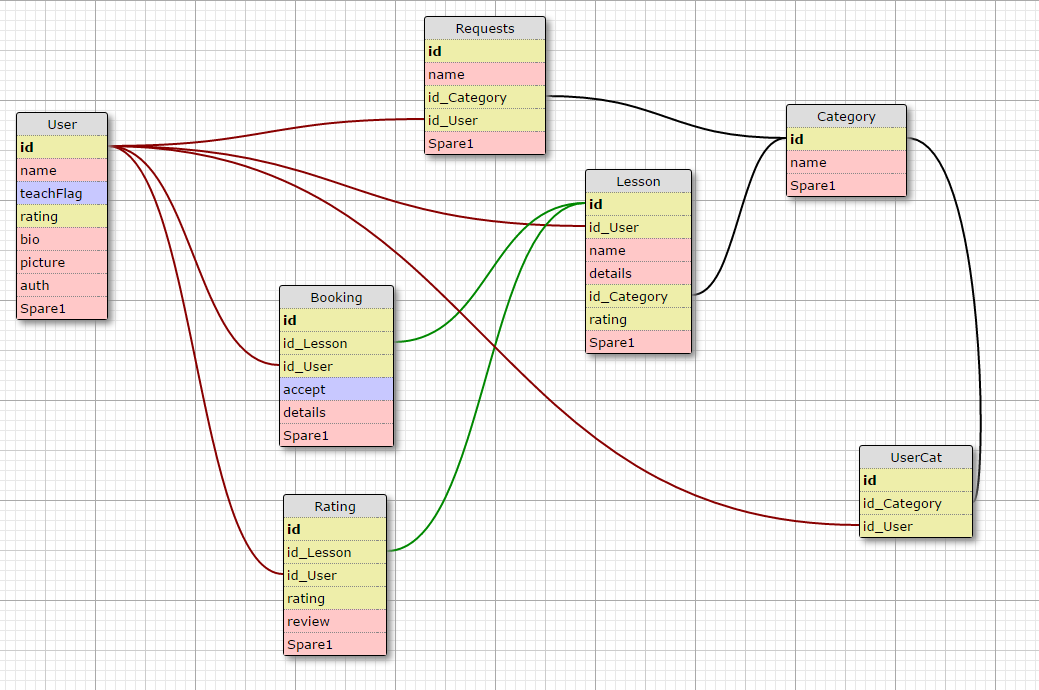
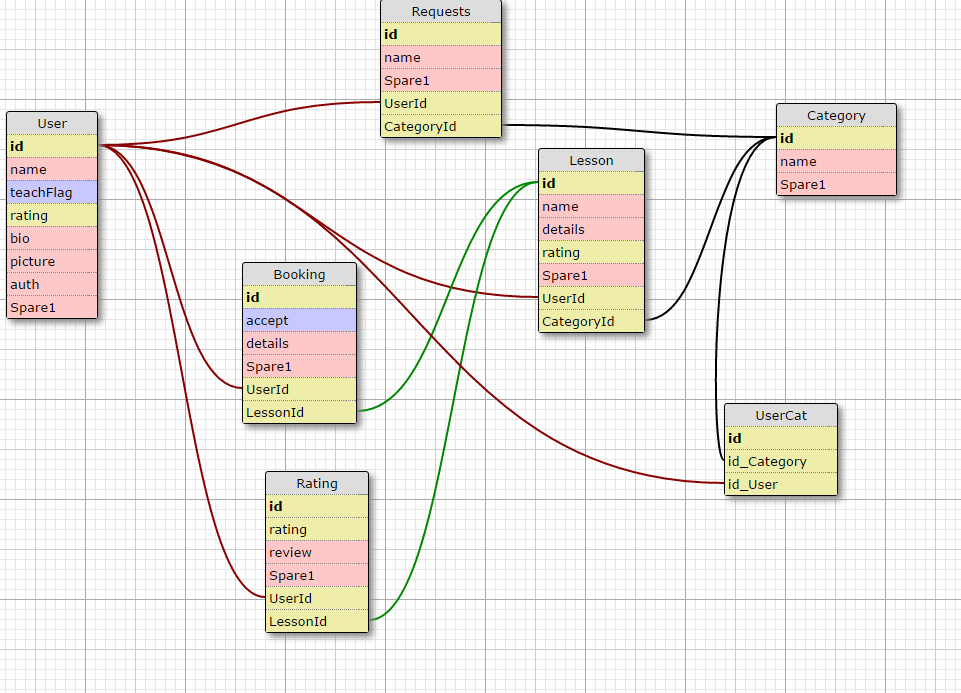
[setup] created base models

diff --git a/server/db/user/UserModel.js b/server/db/user/UserModel.js
@@ -1,19 +1,34 @@
-const retrieveAllRequests = (req, res) =>{
-  /** retrieve request data from db */
-}
 
-const addOneRequest = (req, res) =>{
-  /** add one request to db */
-}
 
-const updateOneRequest = (req, res) =>{
-  /** grab the request from db and update it */ 
-}
-
-module.exports = (app, express)=>{
-  return {
-    retrieveAllRequests: retrieveAllRequests,
-    addOneRequest: addOneRequest,
-    updateOneRequest: updateOneRequest
-  }
+module.exports = (sequelize, DataTypes)=>{
+  var User = sequelize.define('User', {
+      name: {
+        type: DataTypes.STRING
+      },
+      teachFlag: {
+        type: DataTypes.BOOLEAN
+      },
+      rating: {
+        type: DataTypes.FLOAT
+      },
+      bio: {
+        type: DataTypes.TEXT
+      },
+      picture: {
+        type: DataTypes.TEXT
+      },
+      auth: {
+        type: DataTypes.TEXT
+      },
+      spare1: {
+        type: DataTypes.TEXT
+      }
+    }, {
+    /**
+     * freezeTableName: Model tableName will be the same as the model name
+     *  */ 
+    freezeTableName: true 
+  })
+  
+  return User
 }

diff --git a/server/config/db.connect.js b/server/config/db.connect.js
@@ -4,12 +4,12 @@ const Sequelize = require('sequelize')
  * Define paths to each model
  */
 const modelPaths = [
-  // __dirname+'/../db/booking/BookingModel.js',
-  // __dirname+'/../db/category/CategoryModel.js',
-  // __dirname+'/../db/lesson/LessonModel.js',
-  // __dirname+'/../db/rating/RatingModel.js',
-  // __dirname+'/../db/requests/RequestModel.js',
-  // __dirname+'/../db/user/UserModel.js'
+  __dirname+'/../db/booking/BookingModel.js',
+  __dirname+'/../db/category/CategoryModel.js',
+  __dirname+'/../db/lesson/LessonModel.js',
+  __dirname+'/../db/rating/RatingModel.js',
+  __dirname+'/../db/request/RequestModel.js',
+  __dirname+'/../db/user/UserModel.js'
 ]
 
 const sequelize = new Sequelize(process.env.DB_DATABASE, process.env.DB_USER, process.env.DB_PASS, {

diff --git a/server/db/lesson/LessonModel.js b/server/db/lesson/LessonModel.js
@@ -1,0 +1,37 @@
+
+module.exports = (sequelize, DataTypes)=>{
+  var Lesson = sequelize.define('Lesson', {
+      name: {
+        type: DataTypes.STRING,
+      },
+      details: {
+        type: DataTypes.TEXT
+      },
+      rating: {
+        type: DataTypes.TEXT
+      },
+      spare1: {
+        type: DataTypes.TEXT
+      }
+    }, {
+    freezeTableName: true,
+    classMethods: {
+      associate: (models)=>{
+        Lesson.belongsTo(models.User, {
+          foreignKey: {
+            allowNull: false,
+          },
+          onDelete: 'CASCADE'
+        })
+        Lesson.belongsTo(models.Category, {
+          foreignKey: {
+            allowNull: false,
+          },
+          onDelete: 'CASCADE'
+        })
+      }
+    }
+  })
+  
+  return Lesson
+}

diff --git a/server/server.js b/server/server.js
@@ -6,10 +6,23 @@ require('dotenv').config()
 const port = process.env.PORT || 8080  
 
 require('./config/middleware.js')(app, express)  
-require('./config/db.connect.js')  
+
+/**
+ * compiling all models into the model object
+ * all models can now be accessed by models.[modelName]
+ */
+const models = require('./config/db.connect.js')  
 
 app.use('/api', routes)
 
-app.listen(port,()=>{
-   console.log("Listening on port " + port)  
+/**
+ * Sync all SQL models and THEN start the express server, 
+ * otherwise you run the risk of your code running before
+ * the models have finished syncing with the database 
+ * 
+ */
+models.sequelize.sync().then(()=>{
+    app.listen(port, ()=>{
+        console.log("Listening on port " + port)
+    })
 })

diff --git a/server/db/booking/BookingModel.js b/server/db/booking/BookingModel.js
@@ -1,0 +1,34 @@
+
+module.exports = (sequelize, DataTypes)=>{
+  var Booking = sequelize.define('Booking', {
+      accept: {
+        type: DataTypes.BOOLEAN,
+      },
+      details: {
+        type: DataTypes.TEXT
+      },
+      spare1: {
+        type: DataTypes.TEXT
+      }
+    }, {
+    freezeTableName: true,
+    classMethods: {
+      associate: (models)=>{
+        Booking.belongsTo(models.User, {
+          foreignKey: {
+            allowNull: false,
+          },
+          onDelete: 'CASCADE'
+        })
+        Booking.belongsTo(models.Lesson, {
+          foreignKey: {
+            allowNull: false,
+          },
+          onDelete: 'CASCADE'
+        })
+      }
+    }
+  })
+  
+  return Booking
+}

diff --git a/server/db/rating/RatingModel.js b/server/db/rating/RatingModel.js
@@ -1,0 +1,34 @@
+
+module.exports = (sequelize, DataTypes)=>{
+  var Rating = sequelize.define('Rating', {
+      rating: {
+        type: DataTypes.FLOAT,
+      },
+      review: {
+        type: DataTypes.TEXT
+      },
+      spare1: {
+        type: DataTypes.TEXT
+      }
+    }, {
+    freezeTableName: true,
+    classMethods: {
+      associate: (models)=>{
+        Rating.belongsTo(models.User, {
+          foreignKey: {
+            allowNull: false,
+          },
+          onDelete: 'CASCADE'
+        })
+        Rating.belongsTo(models.Lesson, {
+          foreignKey: {
+            allowNull: false,
+          },
+          onDelete: 'CASCADE'
+        })
+      }
+    }
+  })
+  
+  return Rating
+}

diff --git a/server/db/request/RequestModel.js b/server/db/request/RequestModel.js
@@ -1,0 +1,31 @@
+
+module.exports = (sequelize, DataTypes)=>{
+  var Request = sequelize.define('Request', {
+    name: {
+      type: DataTypes.STRING,
+    },
+    spare1: {
+      type: DataTypes.TEXT
+    }
+    }, {
+    freezeTableName: true,
+    classMethods: {
+      associate: (models)=>{
+        Request.belongsTo(models.User, {
+          foreignKey: {
+            allowNull: false,
+          },
+          onDelete: 'CASCADE'
+        })
+        Request.belongsTo(models.Category, {
+          foreignKey: {
+            allowNull: false,
+          },
+          onDelete: 'CASCADE'
+        })
+      }
+    }
+  })
+  
+  return Request
+}

diff --git a/server/config/middleware.js b/server/config/middleware.js
@@ -1,9 +1,9 @@
-const morgan = require('morgan');
-const bodyParser = require('body-parser');
+const morgan = require('morgan')
+const bodyParser = require('body-parser')
 
 module.exports = (app, express)=>{
-   app.use(bodyParser.urlencoded({extended:true}));
-   app.use(bodyParser.json());
-   app.use(morgan('dev'));
-   app.use(express.static(__dirname + '/../../public'));
-};
+   app.use(bodyParser.urlencoded({extended:true}))
+   app.use(bodyParser.json())
+   app.use(morgan('dev'))
+   app.use(express.static(__dirname + '/../../public'))
+}

diff --git a/server/db/category/CategoryModel.js b/server/db/category/CategoryModel.js
@@ -1,0 +1,15 @@
+
+module.exports = (sequelize, DataTypes)=>{
+  var Category = sequelize.define('Category', {
+    name: {
+      type: DataTypes.STRING,
+    },
+    spare1: {
+      type: DataTypes.TEXT
+    }
+    }, {
+    freezeTableName: true 
+  })
+  
+  return Category
+}
